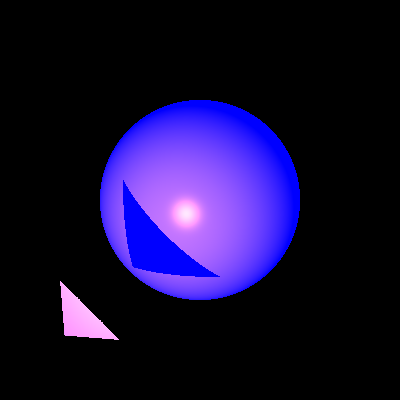
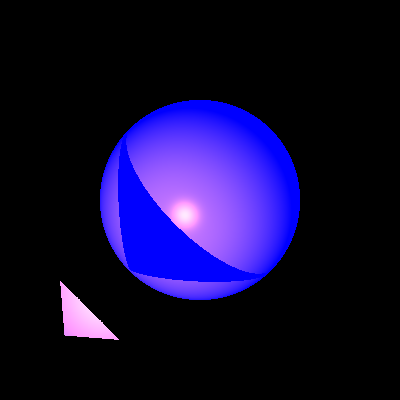
stage7 part 1

Changed region(s): [[0.27, 0.33, 0.66, 0.72]]

diff --git a/src/geometries/Sphere.java b/src/geometries/Sphere.java
@@ -62,7 +62,7 @@ public class Sphere extends RadialGeometry {
      Finds the intersection points of a given ray with a sphere.
 
      @param ray - the given ray to intersect with the sphere
-
+     @param maxDistance the maximum distance between the ray and the point
      @return List of intersection points if the ray intersects the sphere, null otherwise.
      */
     @Override
@@ -70,6 +70,7 @@ public class Sphere extends RadialGeometry {
         Vector v = ray.getDirection();
         Point p0 = ray.getP0();
         if (center.equals(p0)) { // p0 is the center
+            //if the radius is bigger than maxDistance, there are no relevant points
             if(alignZero(radius - maxDistance) > 0){
                 return null;
             }
@@ -85,18 +86,18 @@ public class Sphere extends RadialGeometry {
         double t1 = alignZero(tm - th);
         double t2 = alignZero(tm + th);
 
-        //there is 2 intersection points
+        //there is 2 intersection points, and they are closer than the maxDistance
         if (t1 > 0 && t2 > 0 && alignZero(t1 - maxDistance) <= 0 && alignZero(t2 - maxDistance) <= 0) {
             GeoPoint p1 = new GeoPoint(this, ray.getPoint(t1));
             GeoPoint p2 = new GeoPoint(this, ray.getPoint(t2));
             return List.of(p1, p2);
         }
-        //only t1 intersects the sphere
+        //only t1 intersects the sphere, and it is closer than the maxDistance
         if (t1 > 0 && alignZero(t1 - maxDistance) <= 0) {
             GeoPoint p1 = new GeoPoint(this, ray.getPoint(t1));
             return List.of(p1);
         }
-        //only t2 intersects the sphere
+        //only t2 intersects the sphere, and it is closer than the maxDistance
         if (t2 > 0 && alignZero(t2 - maxDistance) <= 0) {
             GeoPoint p2 = new GeoPoint(this, ray.getPoint(t2));
             return List.of(p2);

diff --git a/src/renderer/RayTracerBasic.java b/src/renderer/RayTracerBasic.java
@@ -118,18 +118,29 @@ public class RayTracerBasic extends RayTracerBase {
         return material.kD.scale(nl);
     }
 
+    /**
+     * A small value used for shadow ray calculations to prevent self-shadowing artifacts.
+     */
     private static final double EPS = 0.1;
 
-    private boolean unshaded(GeoPoint gp, LightSource lightSource, Vector l, Vector n, double nl)
-    {
+    /**
+     * Checks if a given point on a geometry surface is unshaded by a specific light source.
+     *
+     * @param gp           the intersection point and associated geometry
+     * @param lightSource  the light source being checked
+     * @param l            the direction from the intersection point to the light source
+     * @param n            the surface normal at the intersection point
+     * @param nl           the dot product of the surface normal and the light direction
+     * @return true if the point is unshaded by the light source, false otherwise
+     */
+    private boolean unshaded(GeoPoint gp, LightSource lightSource, Vector l, Vector n, double nl) {
         Vector lightDirection = l.scale(-1d); // from point to light source
         Vector epsVector = n.scale(nl < 0 ? EPS : -EPS);
         Point point = gp.point.add(epsVector);
         Ray lightRay = new Ray(point, lightDirection);
-        double maxdistance = lightSource.getDistance(gp.point);
-        List<GeoPoint> intersections = scene.geometries.findGeoIntersections(lightRay,maxdistance);
-        if(intersections == null)
-            return true;
-        return false;
+        double maxDistance = lightSource.getDistance(gp.point);
+        List<GeoPoint> intersections = scene.geometries.findGeoIntersections(lightRay, maxDistance);
+        return intersections == null;
     }
+
 }

diff --git a/unitTests/renderer/ShadowTests.java b/unitTests/renderer/ShadowTests.java
@@ -67,16 +67,16 @@ public class ShadowTests {
    public void sphereTriangleSpot1() {
       sphereTriangleHelper("shadowSphereTriangleSpot1", //
                            new Triangle(new Point(-70, -40, 0), new Point(-40, -70, 0), new Point(-68, -68, -4)), //
-                           new Point(-98,-98,180));
+                           new Point(-82,-82,94.5));
    }
-//
-//   /** Sphere-Triangle shading - move spot even more close */
-//   @Test
-//   public void sphereTriangleSpot2() {
-//      sphereTriangleHelper("shadowSphereTriangleSpot2", //
-//                           new Triangle(new Point(-70, -40, 0), new Point(-40, -70, 0), new Point(-68, -68, -4)), //
-//                           new Point(???, ???, ???));
-//   }
+
+   /** Sphere-Triangle shading - move spot even more close */
+   @Test
+   public void sphereTriangleSpot2() {
+      sphereTriangleHelper("shadowSphereTriangleSpot2", //
+                           new Triangle(new Point(-70, -40, 0), new Point(-40, -70, 0), new Point(-68, -68, -4)), //
+                            new Point(-75,-75,67));
+   }
 
    /** Produce a picture of a two triangles lighted by a spot light with a Sphere
     * producing a shading */

diff --git a/src/geometries/Geometries.java b/src/geometries/Geometries.java
@@ -53,6 +53,7 @@ public class Geometries extends Intersectable {
      * Finds the geometric intersections between the given ray and the objects in the collection.
      *
      * @param ray the ray to intersect with the objects
+     * @param maxDistance the maximum distance between the ray and the point
      * @return a list of geometric intersection points, or null if there are no intersections
      */
     @Override
@@ -65,7 +66,7 @@ public class Geometries extends Intersectable {
 
         // Iterate over all the geometries in the list
         for (Intersectable geometry : geometryList) {
-            // Find the intersection points
+            // Find the relevant intersection Geopoints with the maxDistance condition
             List<GeoPoint> intersections = geometry.findGeoIntersectionsHelper(ray,maxDistance);
             // If there are intersections
             if (intersections != null)

diff --git a/src/geometries/Tube.java b/src/geometries/Tube.java
@@ -75,6 +75,13 @@ public class Tube extends RadialGeometry {
         //the point on the base
            return P0_P.normalize();
     }
+    /**
+     * Finds the intersections between the current tube and a given ray.
+     *
+     * @param ray The ray to find intersections with.
+     * @param maxDistance the maximum distance between the ray and the point
+     * @return null
+     */
    @Override
    public List<GeoPoint> findGeoIntersectionsHelper(Ray ray, double maxDistance){
         return null;

diff --git a/src/geometries/Triangle.java b/src/geometries/Triangle.java
@@ -28,6 +28,7 @@ public class Triangle extends Polygon {
      * Finds the intersections between the current triangle and a given ray.
      *
      * @param ray The ray to find intersections with.
+     * @param maxDistance the maximum distance between the ray and the point
      * @return A list of points representing the intersection points between the triangle and the ray, or null if there are no intersections.
      */
     @Override

diff --git a/src/geometries/Polygon.java b/src/geometries/Polygon.java
@@ -94,6 +94,7 @@ public class Polygon extends Geometry {
     * Finds the intersections between the current polygon and a given ray.
     *
     * @param ray The ray to find intersections with.
+    * @param maxDistance the maximum distance between the ray and the point
     * @return A list of points representing the intersection points between the polygon and the ray, or null if there are no intersections.
     */
    @Override

diff --git a/src/geometries/Intersectable.java b/src/geometries/Intersectable.java
@@ -87,6 +87,7 @@ public abstract class Intersectable {
      * @return a list of geometric intersection points, or null if there are no intersections
      */
     public final List<GeoPoint> findGeoIntersections(Ray ray) {
+        //initialize the max distance as a positive infinity
         return findGeoIntersections(ray, Double.POSITIVE_INFINITY);
     }
     /**

diff --git a/src/geometries/Plane.java b/src/geometries/Plane.java
@@ -92,7 +92,7 @@ public class Plane extends Geometry {
      If there are no intersections, the method returns null.
 
      @param ray The ray to intersect with the plane.
-
+     @param maxDistance the maximum distance between the ray and the point
      @return A list of points representing the intersections, or null if there are no intersections.
      */
 
